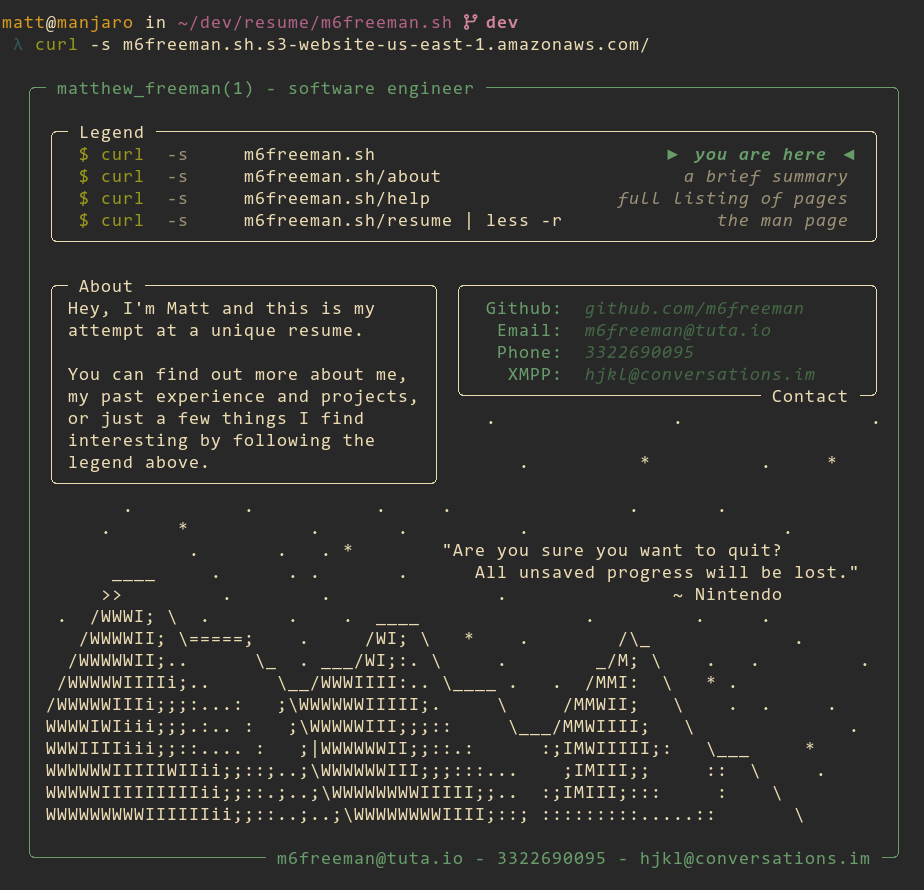
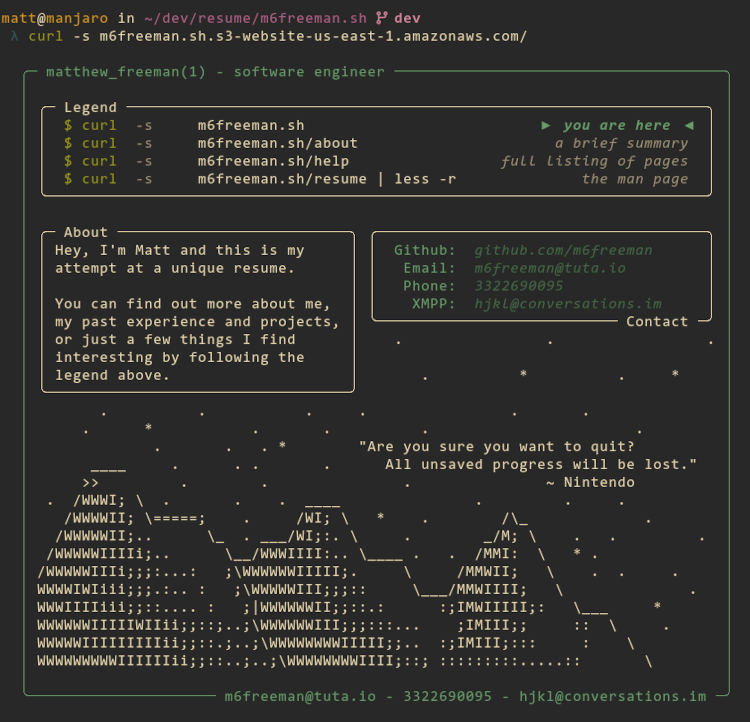
update image size and readme details

diff --git a/README.md b/README.md
@@ -1,4 +1,25 @@
 # View my Resume in your Terminal!
 
+Its my resume, but in the terminal.
+
+With just `curl` in your terminal, you can navigate my website, which primarily hosts my resume.
+
+## Example
+
+``` bash
+# home page
+curl -s m6freeman.sh.s3-website-us-east-1.amazonaws.com
+
+# my full resume
+curl -s m6freeman.sh.s3-website-us-east-1.amazonaws.com/resume | less -r
+```
+
+- `curl`'s `-s` just means `--silent`. `curl`'s progress bar can leave unsightly artifacts, so this is recommended
+- Piping the resume page into `less` or the pager of your choice is recommended in order to start at the top. `less`'s `-r` renders the ANSI characters
+
+## SHOUT OUTS
+
+ - Heavily inspired by [YSAP](https://www.youtube.com/watch?v=ddG_thnxt9A)'s website `ysap.sh`. I thought this was such a cleaver idea and figured I could do that, but within my own tech stack.
+
 ![welcome page](./img.png)
 
